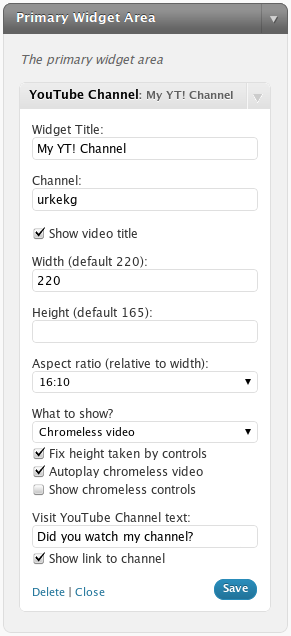
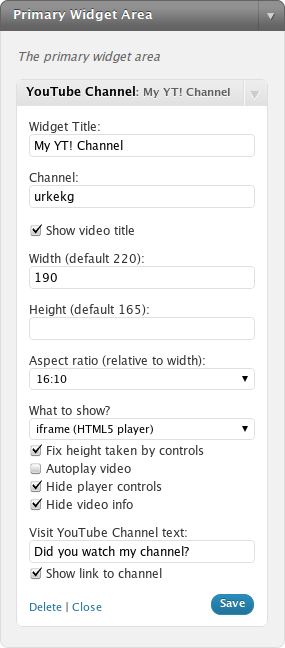
updated screenshots
git-svn-id: https://plugins.svn.wordpress.org/youtube-channel/trunk@367007 b8457f37-d9ea-0310-8a92-e5e31aec5664

diff --git a/youtube-channel.php b/youtube-channel.php
@@ -2,7 +2,7 @@
 /*
 Plugin Name: YouTube Channel
 Plugin URI: http://blog.urosevic.net/wordpress/youtubet-channel/
-Description: <a href="widgets.php">Widget</a> that display latest video thumbnail, playable flash object or chromeless video from YouTube Channel.
+Description: <a href="widgets.php">Widget</a> that display latest video thumbnail, iframe (HTML5 video), object (Flash video) or chromeless video from YouTube Channel.
 Author: Aleksandar Urošević
 Version: 0.1.1
 Author URI: http://urosevic.net/
@@ -20,8 +20,8 @@ class YouTube_Channel_Widget extends WP_Widget {
 		$title      = esc_attr($instance['title']);
 		$channel    = esc_attr($instance['channel']);
 		$goto_txt   = esc_attr($instance['goto_txt']);
-		$showgoto  = esc_attr($instance['showgoto']);
-		$showtitle = esc_attr($instance['showtitle']);
+		$showgoto   = esc_attr($instance['showgoto']);
+		$showtitle  = esc_attr($instance['showtitle']);
 		$width      = esc_attr($instance['width']);
 		$height     = esc_attr($instance['height']);
 		$to_show    = esc_attr($instance['to_show']);
@@ -31,21 +31,21 @@ class YouTube_Channel_Widget extends WP_Widget {
 		$fixyt      = esc_attr($instance['fixyt']);
 		$hideinfo   = esc_attr($instance['hideinfo']);
 		?>
-            <p><label for="<?php echo $this->get_field_id('title'); ?>"><?php _e('Widget Title:'); ?><input class="widefat" id="<?php echo $this->get_field_id('title'); ?>" name="<?php echo $this->get_field_name('title'); ?>" type="text" value="<?php echo $title; ?>" /></label></p>
-            <p><label for="<?php echo $this->get_field_id('channel'); ?>"><?php _e('Channel:'); ?> <input class="widefat" id="<?php echo $this->get_field_id('channel'); ?>" name="<?php echo $this->get_field_name('channel'); ?>" type="text" value="<?php echo $channel; ?>" /></label></p>
-            <p><input class="checkbox" type="checkbox" <?php checked( (bool) $instance['showtitle'], true ); ?> id="<?php echo $this->get_field_id( 'showtitle' ); ?>" name="<?php echo $this->get_field_name( 'showtitle' ); ?>" /> <label for="<?php echo $this->get_field_id( 'showtitle' ); ?>"><?php _e('Show video title'); ?></label></p>
-            <p><label for="<?php echo $this->get_field_id('width'); ?>"><?php _e('Width'); ?> (<?php _e('default'); ?> 220):<input class="widefat" id="<?php echo $this->get_field_id('width'); ?>" name="<?php echo $this->get_field_name('width'); ?>" type="text" value="<?php echo $width; ?>" /></label></p>
-            <p><label for="<?php echo $this->get_field_id('height'); ?>"><?php _e('Height'); ?> (<?php _e('default'); ?> 165):<input class="widefat" id="<?php echo $this->get_field_id('height'); ?>" name="<?php echo $this->get_field_name('height'); ?>" type="text" value="<?php echo $height; ?>" /></label></p>
-            <p><label for="<?php echo $this->get_field_id('to_show'); ?>"><?php _e('Aspect ratio (relative to width):'); ?>
-            <select class="widefat" id="<?php echo $this->get_field_id( 'ratio' ); ?>" name="<?php echo $this->get_field_name( 'ratio' ); ?>">
+		<p><label for="<?php echo $this->get_field_id('title'); ?>"><?php _e('Widget Title:'); ?><input class="widefat" id="<?php echo $this->get_field_id('title'); ?>" name="<?php echo $this->get_field_name('title'); ?>" type="text" value="<?php echo $title; ?>" /></label></p>
+		<p><label for="<?php echo $this->get_field_id('channel'); ?>"><?php _e('Channel:'); ?> <input class="widefat" id="<?php echo $this->get_field_id('channel'); ?>" name="<?php echo $this->get_field_name('channel'); ?>" type="text" value="<?php echo $channel; ?>" /></label></p>
+		<p><input class="checkbox" type="checkbox" <?php checked( (bool) $instance['showtitle'], true ); ?> id="<?php echo $this->get_field_id( 'showtitle' ); ?>" name="<?php echo $this->get_field_name( 'showtitle' ); ?>" /> <label for="<?php echo $this->get_field_id( 'showtitle' ); ?>"><?php _e('Show video title'); ?></label></p>
+		<p><label for="<?php echo $this->get_field_id('width'); ?>"><?php _e('Width'); ?> (<?php _e('default'); ?> 220):<input class="widefat" id="<?php echo $this->get_field_id('width'); ?>" name="<?php echo $this->get_field_name('width'); ?>" type="text" value="<?php echo $width; ?>" /></label></p>
+		<p><label for="<?php echo $this->get_field_id('height'); ?>"><?php _e('Height'); ?> (<?php _e('default'); ?> 165):<input class="widefat" id="<?php echo $this->get_field_id('height'); ?>" name="<?php echo $this->get_field_name('height'); ?>" type="text" value="<?php echo $height; ?>" /></label></p>
+		<p><label for="<?php echo $this->get_field_id('to_show'); ?>"><?php _e('Aspect ratio (relative to width):'); ?>
+			<select class="widefat" id="<?php echo $this->get_field_id( 'ratio' ); ?>" name="<?php echo $this->get_field_name( 'ratio' ); ?>">
 				<option value="0"<?php if ($instance['ratio'] == "0") { echo 'selected="selected"'; } ?>><?php _e('Custom'); ?></option>
 				<option value="1"<?php if ($instance['ratio'] == "1") { echo 'selected="selected"'; } ?>>4:3</option>
 				<option value="2"<?php if ($instance['ratio'] == "2") { echo 'selected="selected"'; } ?>>16:10</option>
 				<option value="3"<?php if ($instance['ratio'] == "3") { echo 'selected="selected"'; } ?>>16:9</option>
 			</select>
-            </p>
-            <p><label for="<?php echo $this->get_field_id('to_show'); ?>"><?php _e('What to show?'); ?>
-            <select class="widefat" id="<?php echo $this->get_field_id( 'to_show' ); ?>" name="<?php echo $this->get_field_name( 'to_show' ); ?>">
+		</p>
+		<p><label for="<?php echo $this->get_field_id('to_show'); ?>"><?php _e('What to show?'); ?>
+			<select class="widefat" id="<?php echo $this->get_field_id( 'to_show' ); ?>" name="<?php echo $this->get_field_name( 'to_show' ); ?>">
 				<option value="thumbnail"<?php if ($instance['to_show']  == "thumbnail") { echo 'selected="selected"'; } ?>><?php _e('Thumbnail'); ?></option>
 				<option value="object"<?php if ($instance['to_show']     == "object") { echo 'selected="selected"'; } ?>><?php _e('object (flash player)'); ?></option>
 				<option value="iframe"<?php if ($instance['to_show']     == "iframe") { echo 'selected="selected"'; } ?>><?php _e('iframe (HTML5 player)'); ?></option>
@@ -54,9 +54,10 @@ class YouTube_Channel_Widget extends WP_Widget {
 			<input class="checkbox" type="checkbox" <?php checked( (bool) $instance['fixyt'], true ); ?> id="<?php echo $this->get_field_id( 'fixyt' ); ?>" name="<?php echo $this->get_field_name( 'fixyt' ); ?>" /> <label for="<?php echo $this->get_field_id( 'fixyt' ); ?>"><?php _e('Fix height taken by controls'); ?></label><br />
 			<input class="checkbox" type="checkbox" <?php checked( (bool) $instance['autoplay'], true ); ?> id="<?php echo $this->get_field_id( 'autoplay' ); ?>" name="<?php echo $this->get_field_name( 'autoplay' ); ?>" /> <label for="<?php echo $this->get_field_id( 'autoplay' ); ?>"><?php _e('Autoplay video'); ?></label><br />
 			<input class="checkbox" type="checkbox" <?php checked( (bool) $instance['controls'], true ); ?> id="<?php echo $this->get_field_id( 'controls' ); ?>" name="<?php echo $this->get_field_name( 'controls' ); ?>" /> <label for="<?php echo $this->get_field_id( 'controls' ); ?>"><?php _e('Hide player controls'); ?></label><br />
-			<input class="checkbox" type="checkbox" <?php checked( (bool) $instance['hideinfo'], true ); ?> id="<?php echo $this->get_field_id( 'hideinfo' ); ?>" name="<?php echo $this->get_field_name( 'hideinfo' ); ?>" /> <label for="<?php echo $this->get_field_id( 'hideinfo' ); ?>"><?php _e('Hide video info'); ?></label></p>
-            <p><label for="<?php echo $this->get_field_id('goto_txt'); ?>"><?php _e('Visit YouTube Channel text:'); ?> <input class="widefat" id="<?php echo $this->get_field_id('goto_txt'); ?>" name="<?php echo $this->get_field_name('goto_txt'); ?>" type="text" value="<?php echo $goto_txt; ?>" /></label>
-            <input class="checkbox" type="checkbox" <?php checked( (bool) $instance['showgoto'], true ); ?> id="<?php echo $this->get_field_id( 'showgoto' ); ?>" name="<?php echo $this->get_field_name( 'showgoto' ); ?>" /> <label for="<?php echo $this->get_field_id( 'showgoto' ); ?>"><?php _e('Show link to channel'); ?></label></p>
+			<input class="checkbox" type="checkbox" <?php checked( (bool) $instance['hideinfo'], true ); ?> id="<?php echo $this->get_field_id( 'hideinfo' ); ?>" name="<?php echo $this->get_field_name( 'hideinfo' ); ?>" /> <label for="<?php echo $this->get_field_id( 'hideinfo' ); ?>"><?php _e('Hide video info'); ?></label>
+		</p>
+		<p><label for="<?php echo $this->get_field_id('goto_txt'); ?>"><?php _e('Visit YouTube Channel text:'); ?> <input class="widefat" id="<?php echo $this->get_field_id('goto_txt'); ?>" name="<?php echo $this->get_field_name('goto_txt'); ?>" type="text" value="<?php echo $goto_txt; ?>" /></label>
+		<input class="checkbox" type="checkbox" <?php checked( (bool) $instance['showgoto'], true ); ?> id="<?php echo $this->get_field_id( 'showgoto' ); ?>" name="<?php echo $this->get_field_name( 'showgoto' ); ?>" /> <label for="<?php echo $this->get_field_id( 'showgoto' ); ?>"><?php _e('Show link to channel'); ?></label></p>
 		<?php
 	}
 
@@ -156,29 +157,29 @@ echo <<<EOF
 EOF;
 		} else if ( $to_show == "chromeless" ) {
 ?>
-        <object type="application/x-shockwave-flash" data="<?php echo get_bloginfo('wpurl'); ?>/wp-content/plugins/youtube-channel/chromeless.swf" width="<?php echo $width; ?>" height="<?php echo $height; ?>">
-          <param name="flashVars" value="video_source=<?php echo $yt_id; ?>&video_width=<?php echo $width; ?>&video_height=<?php echo $height; ?><?php if ( $autoplay ) { echo "&autoplay=Yes"; } if ( !$controls ) { echo "&youtube_controls=Yes"; } ?>" />
-          <param name="quality" value="high" />
-          <param name="wmode" value="opaque" />
-          <param name="swfversion" value="6.0.65.0" />
-          <param name="movie" value="<?php echo get_bloginfo('wpurl'); ?>/wp-content/plugins/youtube-channel/chromeless.swf" />
-        </object>	
+	<object type="application/x-shockwave-flash" data="<?php echo get_bloginfo('wpurl'); ?>/wp-content/plugins/youtube-channel/chromeless.swf" width="<?php echo $width; ?>" height="<?php echo $height; ?>">
+		<param name="flashVars" value="video_source=<?php echo $yt_id; ?>&video_width=<?php echo $width; ?>&video_height=<?php echo $height; ?><?php if ( $autoplay ) { echo "&autoplay=Yes"; } if ( !$controls ) { echo "&youtube_controls=Yes"; } ?>" />
+		<param name="quality" value="high" />
+		<param name="wmode" value="opaque" />
+		<param name="swfversion" value="6.0.65.0" />
+		<param name="movie" value="<?php echo get_bloginfo('wpurl'); ?>/wp-content/plugins/youtube-channel/chromeless.swf" />
+	</object>	
 <?php
 		} else if ( $to_show == "iframe" ) {
 ?>
-<iframe title="YouTube video player" width="<?php echo $width; ?>" height="<?php echo $height; ?>" src="http://www.youtube.com/embed/<?php echo "$yt_id?enablejsapi=1"; if ( $controls ) { echo "&controls=0"; } if ( $hideinfo ) { echo "&showinfo=0"; } if ( $autoplay ) { echo "&amp;autoplay=1"; } ?>" frameborder="0" allowfullscreen></iframe>
+	<iframe title="YouTube video player" width="<?php echo $width; ?>" height="<?php echo $height; ?>" src="http://www.youtube.com/embed/<?php echo "$yt_id?enablejsapi=1"; if ( $controls ) { echo "&controls=0"; } if ( $hideinfo ) { echo "&showinfo=0"; } if ( $autoplay ) { echo "&amp;autoplay=1"; } ?>" frameborder="0" allowfullscreen></iframe>
 <?php
 		} else { // default is object
 ?>
-		<object classid="clsid:D27CDB6E-AE6D-11cf-96B8-444553540000" width="<?php echo $width; ?>" height="<?php echo $height; ?>">
-			<param name="movie" value="http://www.youtube.com/v/<?php echo $yt_id; ?>?version=3<?php if ( $controls ) { echo "&amp;controls=0"; } if ( $hideinfo ) { echo "&amp;showinfo=0"; } if ( $autoplay ) { echo "&amp;autoplay=1"; } ?>" />
-			<!--[if !IE]>-->
-			<object type="application/x-shockwave-flash" data="http://www.youtube.com/v/<?php echo $yt_id; ?>?version=3<?php if ( $controls ) { echo "&amp;controls=0"; } if ( $hideinfo ) { echo "&amp;showinfo=0"; } if ( $autoplay ) { echo "&amp;autoplay=1"; } ?>" width="<?php echo $width; ?>" height="<?php echo $height; ?>">
-			<!--<![endif]-->
-			<!--[if !IE]>-->
-			</object>
-			<!--<![endif]-->
+	<object classid="clsid:D27CDB6E-AE6D-11cf-96B8-444553540000" width="<?php echo $width; ?>" height="<?php echo $height; ?>">
+		<param name="movie" value="http://www.youtube.com/v/<?php echo $yt_id; ?>?version=3<?php if ( $controls ) { echo "&amp;controls=0"; } if ( $hideinfo ) { echo "&amp;showinfo=0"; } if ( $autoplay ) { echo "&amp;autoplay=1"; } ?>" />
+		<!--[if !IE]>-->
+		<object type="application/x-shockwave-flash" data="http://www.youtube.com/v/<?php echo $yt_id; ?>?version=3<?php if ( $controls ) { echo "&amp;controls=0"; } if ( $hideinfo ) { echo "&amp;showinfo=0"; } if ( $autoplay ) { echo "&amp;autoplay=1"; } ?>" width="<?php echo $width; ?>" height="<?php echo $height; ?>">
+		<!--<![endif]-->
+		<!--[if !IE]>-->
 		</object>
+		<!--<![endif]-->
+	</object>
 <?php
 		}
 
@@ -186,8 +187,8 @@ EOF;
 		if ( $instance['showgoto'] ) {
 			$goto_txt = $instance['goto_txt'];
 			if ( $goto_txt == "" ) { $goto_txt = __("Visit channel")." $channel"; }
-			echo <<<EOF
-		<p><a href="javascript: window.open('http://www.youtube.com/user/$channel/'); void 0;" title="$goto_txt">$goto_txt</a></p>
+echo <<<EOF
+	<p><a href="javascript: window.open('http://www.youtube.com/user/$channel/'); void 0;" title="$goto_txt">$goto_txt</a></p>
 EOF;
 		} // showgoto
 	}
